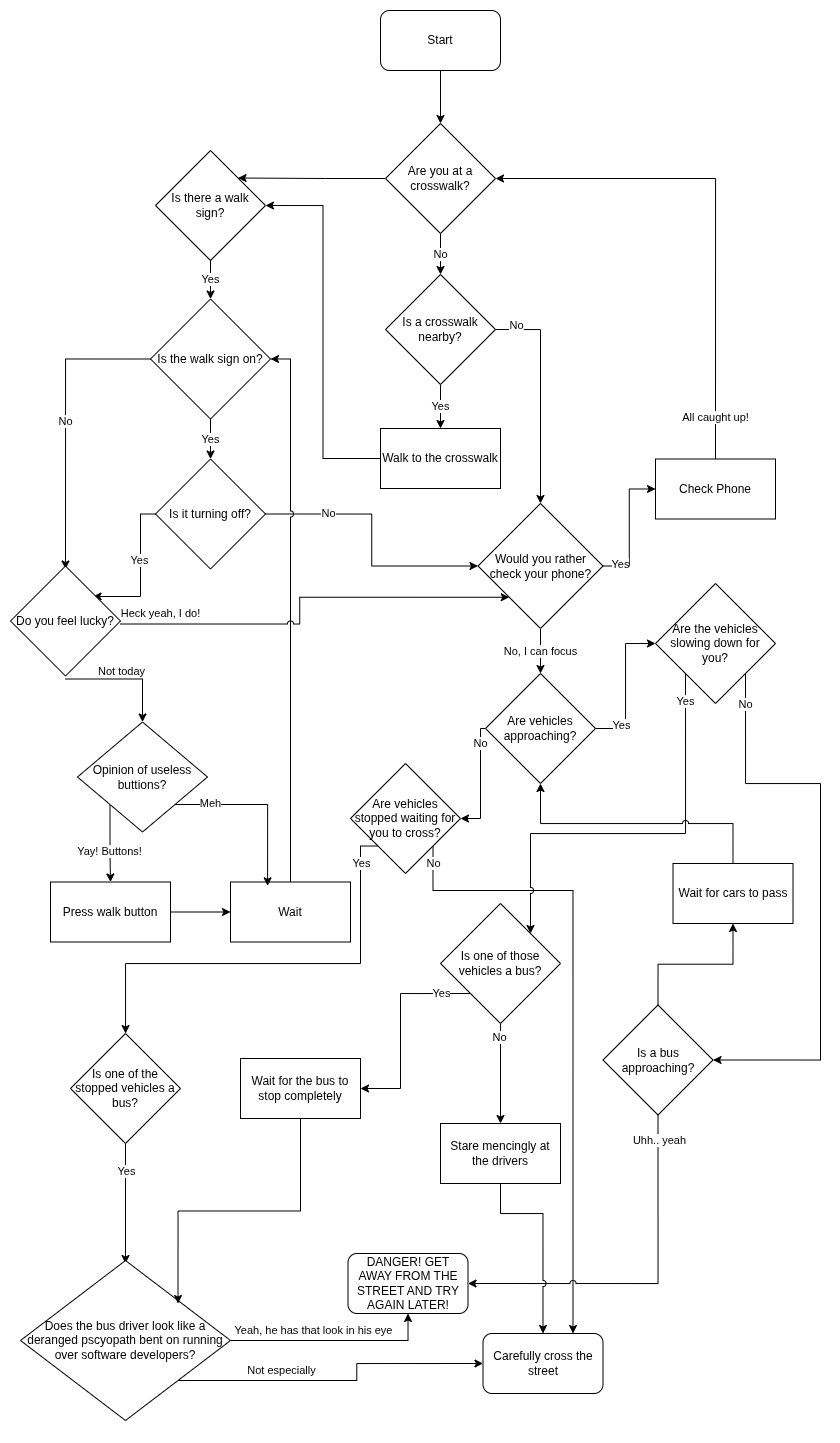
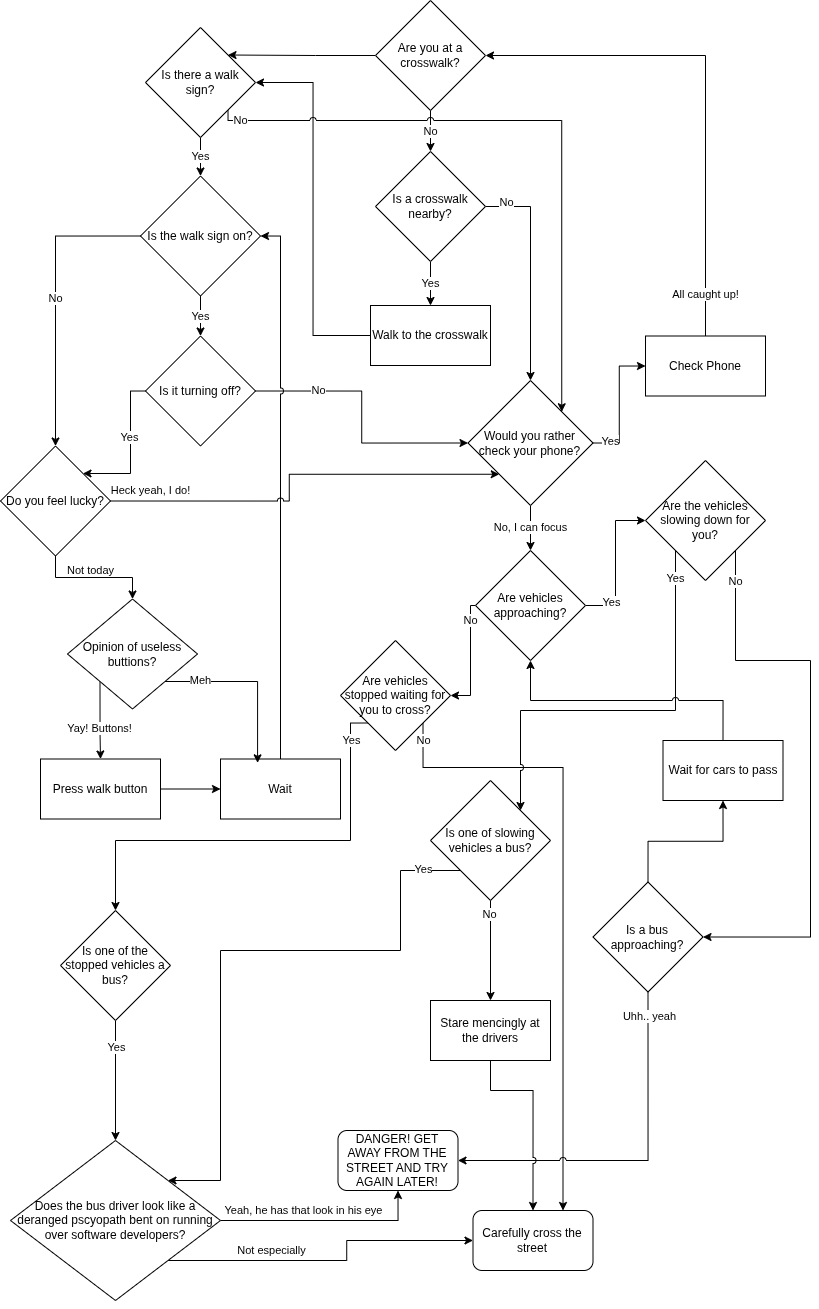
fix(buses): add a missed condition for no walk sign present
Also switched the flowchart to a transparent background.

diff --git a/content/posts/how-to-walk-safely-near-buses/index.md b/content/posts/how-to-walk-safely-near-buses/index.md
@@ -8,11 +8,11 @@ What would happen if the one engineer who really knows how it all works in your 
 
 {{< autoimg
     src="bus-safety.png"
-    link="bus-safety.png"
+    link="bus-safety-big.png"
     class="light"
     alt="Flowchart to help safely cross the street near buses" >}}
 {{< autoimg
     src="bus-safety-dark.png"
-    link="bus-safety-dark.png"
+    link="bus-safety-dark-big.png"
     class="dark"
     alt="Flowchart to help safely cross the street near buses" >}}
